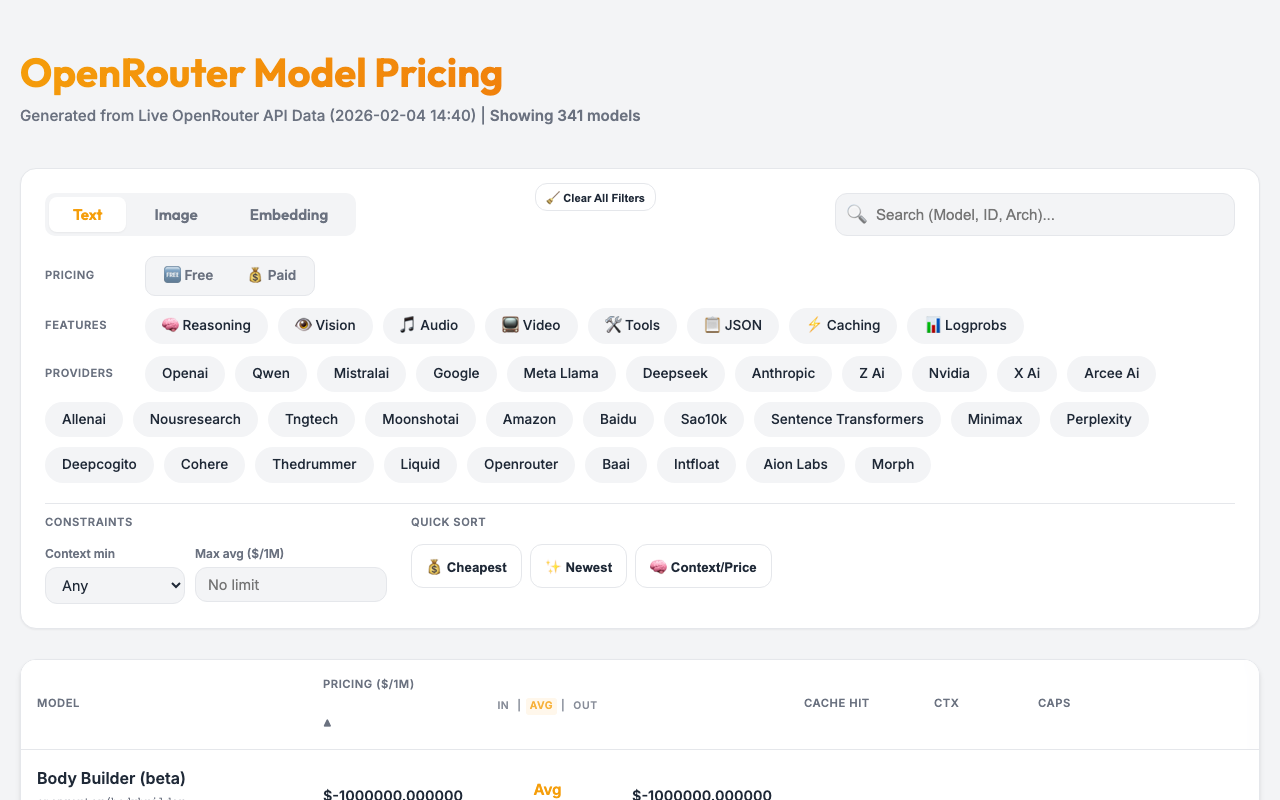
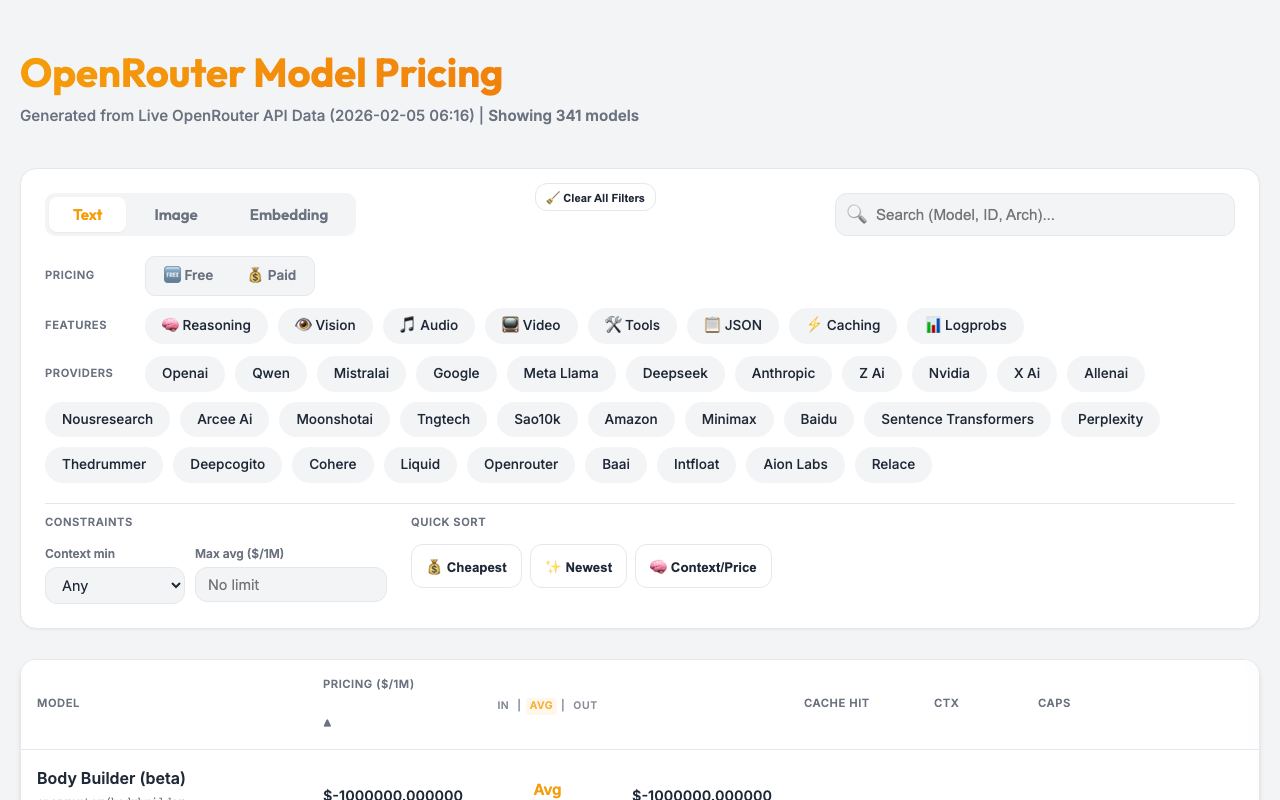
chore: automated pricing update (2026-02-05 06:16:17)
🆕 Added Models (1): allenai/molmo-2-8b
❌ Removed Models (1): allenai/molmo-2-8b:free
🔄 Changed Models (4): minimax/minimax-m2.1, openai/chatgpt-4o-latest, openrouter/free, qwen/qwen3-vl-235b-a22b-instruct

diff --git a/docs/index.html b/docs/index.html
@@ -634,7 +634,7 @@
     <div class="container">
         <header>
             <h1>OpenRouter Model Pricing</h1>
-            <div class="meta">Generated from Live OpenRouter API Data (2026-02-04 14:40)</div>
+            <div class="meta">Generated from Live OpenRouter API Data (2026-02-05 06:16)</div>
         </header>
 
         <div class="controls">
@@ -786,7 +786,6 @@
       "supported_parameters": [
         "frequency_penalty",
         "include_reasoning",
-        "logit_bias",
         "max_tokens",
         "min_p",
         "presence_penalty",
@@ -1404,10 +1403,10 @@
       "expiration_date": null
     },
     {
-      "id": "allenai/molmo-2-8b:free",
+      "id": "allenai/molmo-2-8b",
       "canonical_slug": "allenai/molmo-2-8b-20260109",
       "hugging_face_id": "allenai/Molmo2-8B",
-      "name": "AllenAI: Molmo2 8B (free)",
+      "name": "AllenAI: Molmo2 8B",
       "created": 1767996672,
       "description": "Molmo2-8B is an open vision-language model developed by the Allen Institute for AI (Ai2) as part of the Molmo2 family, supporting image, video, and multi-image understanding and grounding. It is based on Qwen3-8B and uses SigLIP 2 as its vision backbone, outperforming other open-weight, open-data models on short videos, counting, and captioning, while remaining competitive on long-video tasks.",
       "context_length": 36864,
@@ -1425,8 +1424,8 @@
         "instruct_type": null
       },
       "pricing": {
-        "prompt": "0",
-        "completion": "0"
+        "prompt": "0.0000002",
+        "completion": "0.0000002"
       },
       "top_provider": {
         "context_length": 36864,
@@ -1440,7 +1439,6 @@
         "max_tokens",
         "presence_penalty",
         "repetition_penalty",
-        "response_format",
         "seed",
         "stop",
         "temperature",
@@ -1629,11 +1627,12 @@
       },
       "pricing": {
         "prompt": "0.00000027",
-        "completion": "0.0000011"
+        "completion": "0.00000095",
+        "input_cache_read": "0.0000000299999997"
       },
       "top_provider": {
         "context_length": 196608,
-        "max_completion_tokens": 196608,
+        "max_completion_tokens": null,
         "is_moderated": false
       },
       "per_request_limits": null,
@@ -5443,7 +5442,8 @@
       },
       "pricing": {
         "prompt": "0.0000002",
-        "completion": "0.0000012"
+        "completion": "0.0000012",
+        "input_cache_read": "0.00000011"
       },
       "top_provider": {
         "context_length": 262144,
@@ -15199,7 +15199,7 @@
         "top_p"
       ],
       "default_parameters": {},
-      "expiration_date": null
+      "expiration_date": "2026-02-17"
     },
     {
       "id": "sao10k/l3-lunaris-8b",
@@ -18570,7 +18570,7 @@
   ],
   "other": []
 };
-        window.providerOptions = ['openai', 'qwen', 'mistralai', 'google', 'meta-llama', 'deepseek', 'anthropic', 'z-ai', 'nvidia', 'x-ai', 'arcee-ai', 'allenai', 'nousresearch', 'tngtech', 'moonshotai', 'amazon', 'baidu', 'sao10k', 'sentence-transformers', 'minimax', 'perplexity', 'deepcogito', 'cohere', 'thedrummer', 'liquid', 'openrouter', 'baai', 'intfloat', 'aion-labs', 'morph', 'inflection', 'neversleep', 'bytedance-seed', 'thenlper', 'ai21', 'microsoft', 'relace', 'inception', 'gryphe', 'meituan', 'xiaomi', 'ibm-granite', 'bytedance', 'stepfun', 'switchpoint', 'kwaipilot', 'alfredpros', 'essentialai', 'alibaba', 'stepfun-ai', 'upstage', 'nex-agi', 'undi95', 'tencent', 'cognitivecomputations', 'eleutherai', 'anthracite-org', 'mancer', 'raifle', 'prime-intellect', 'opengvlab', 'alpindale', 'writer'];
+        window.providerOptions = ['openai', 'qwen', 'mistralai', 'google', 'meta-llama', 'deepseek', 'anthropic', 'z-ai', 'nvidia', 'x-ai', 'allenai', 'nousresearch', 'arcee-ai', 'moonshotai', 'tngtech', 'sao10k', 'amazon', 'minimax', 'baidu', 'sentence-transformers', 'perplexity', 'thedrummer', 'deepcogito', 'cohere', 'liquid', 'openrouter', 'baai', 'intfloat', 'aion-labs', 'relace', 'neversleep', 'morph', 'inflection', 'microsoft', 'thenlper', 'bytedance-seed', 'inception', 'ai21', 'alpindale', 'bytedance', 'ibm-granite', 'essentialai', 'opengvlab', 'writer', 'eleutherai', 'mancer', 'tencent', 'meituan', 'cognitivecomputations', 'alfredpros', 'upstage', 'alibaba', 'xiaomi', 'undi95', 'prime-intellect', 'anthracite-org', 'raifle', 'stepfun', 'kwaipilot', 'switchpoint', 'nex-agi', 'gryphe', 'stepfun-ai'];
         let currentTab = 'text';
         let sortKey = 'price_avg';
         let sortAsc = true;
